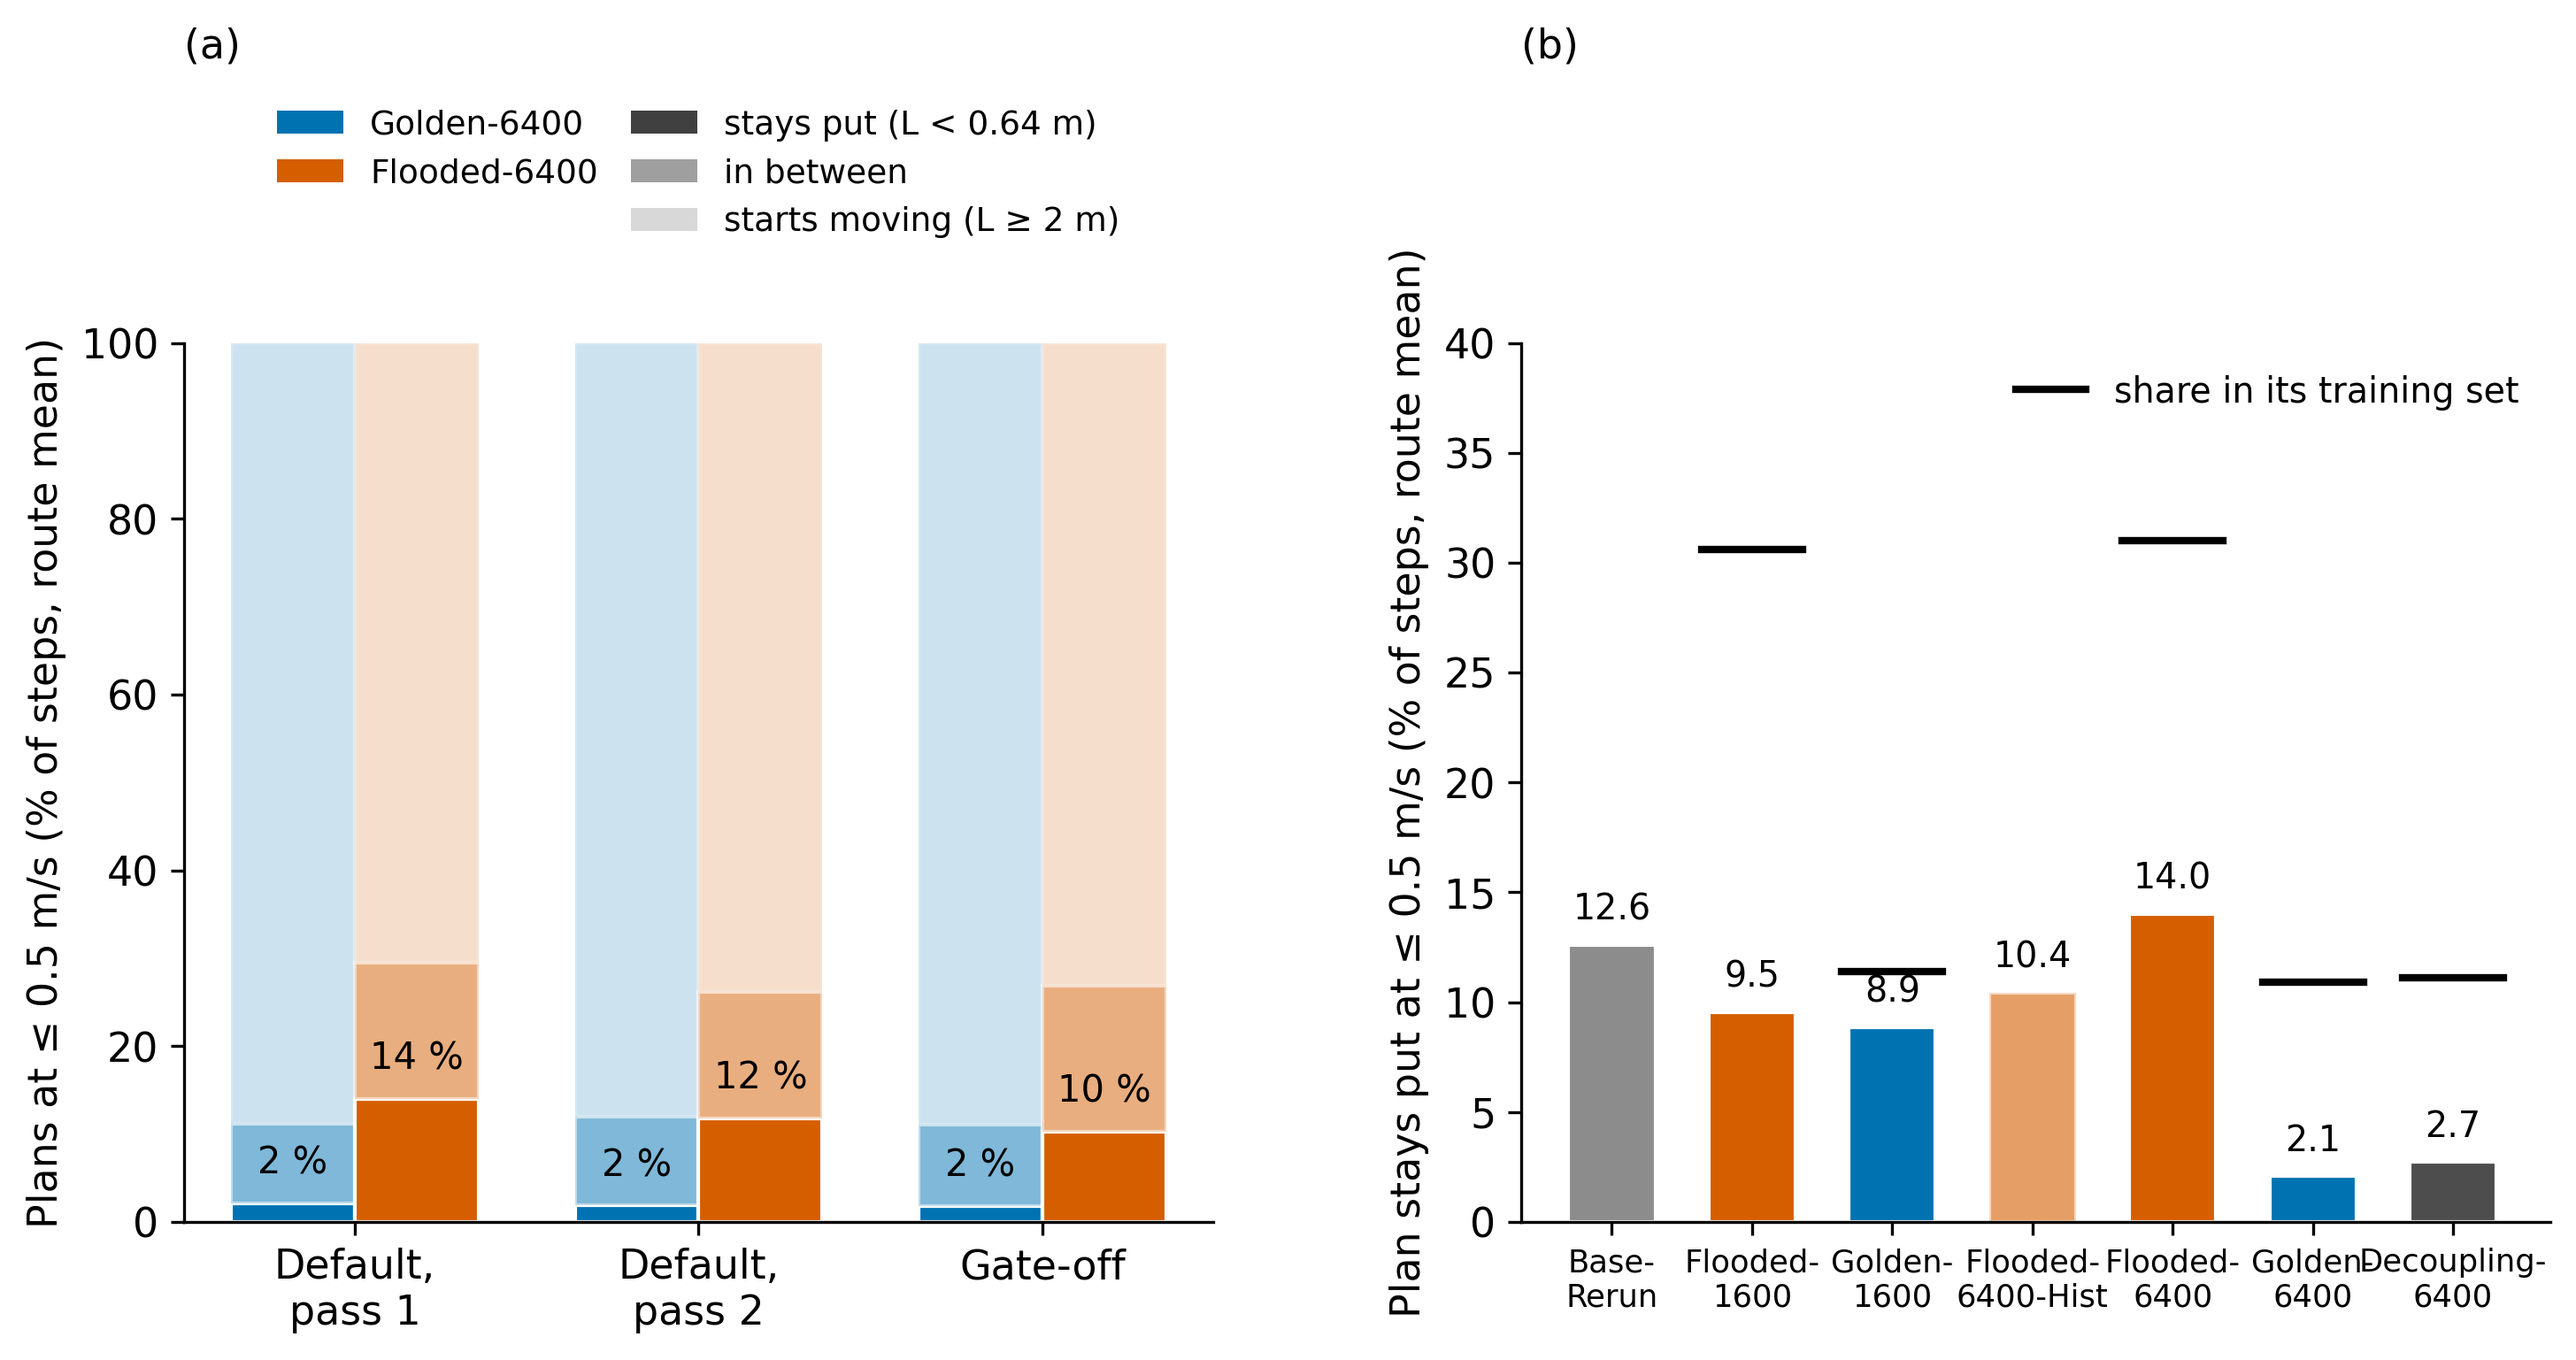
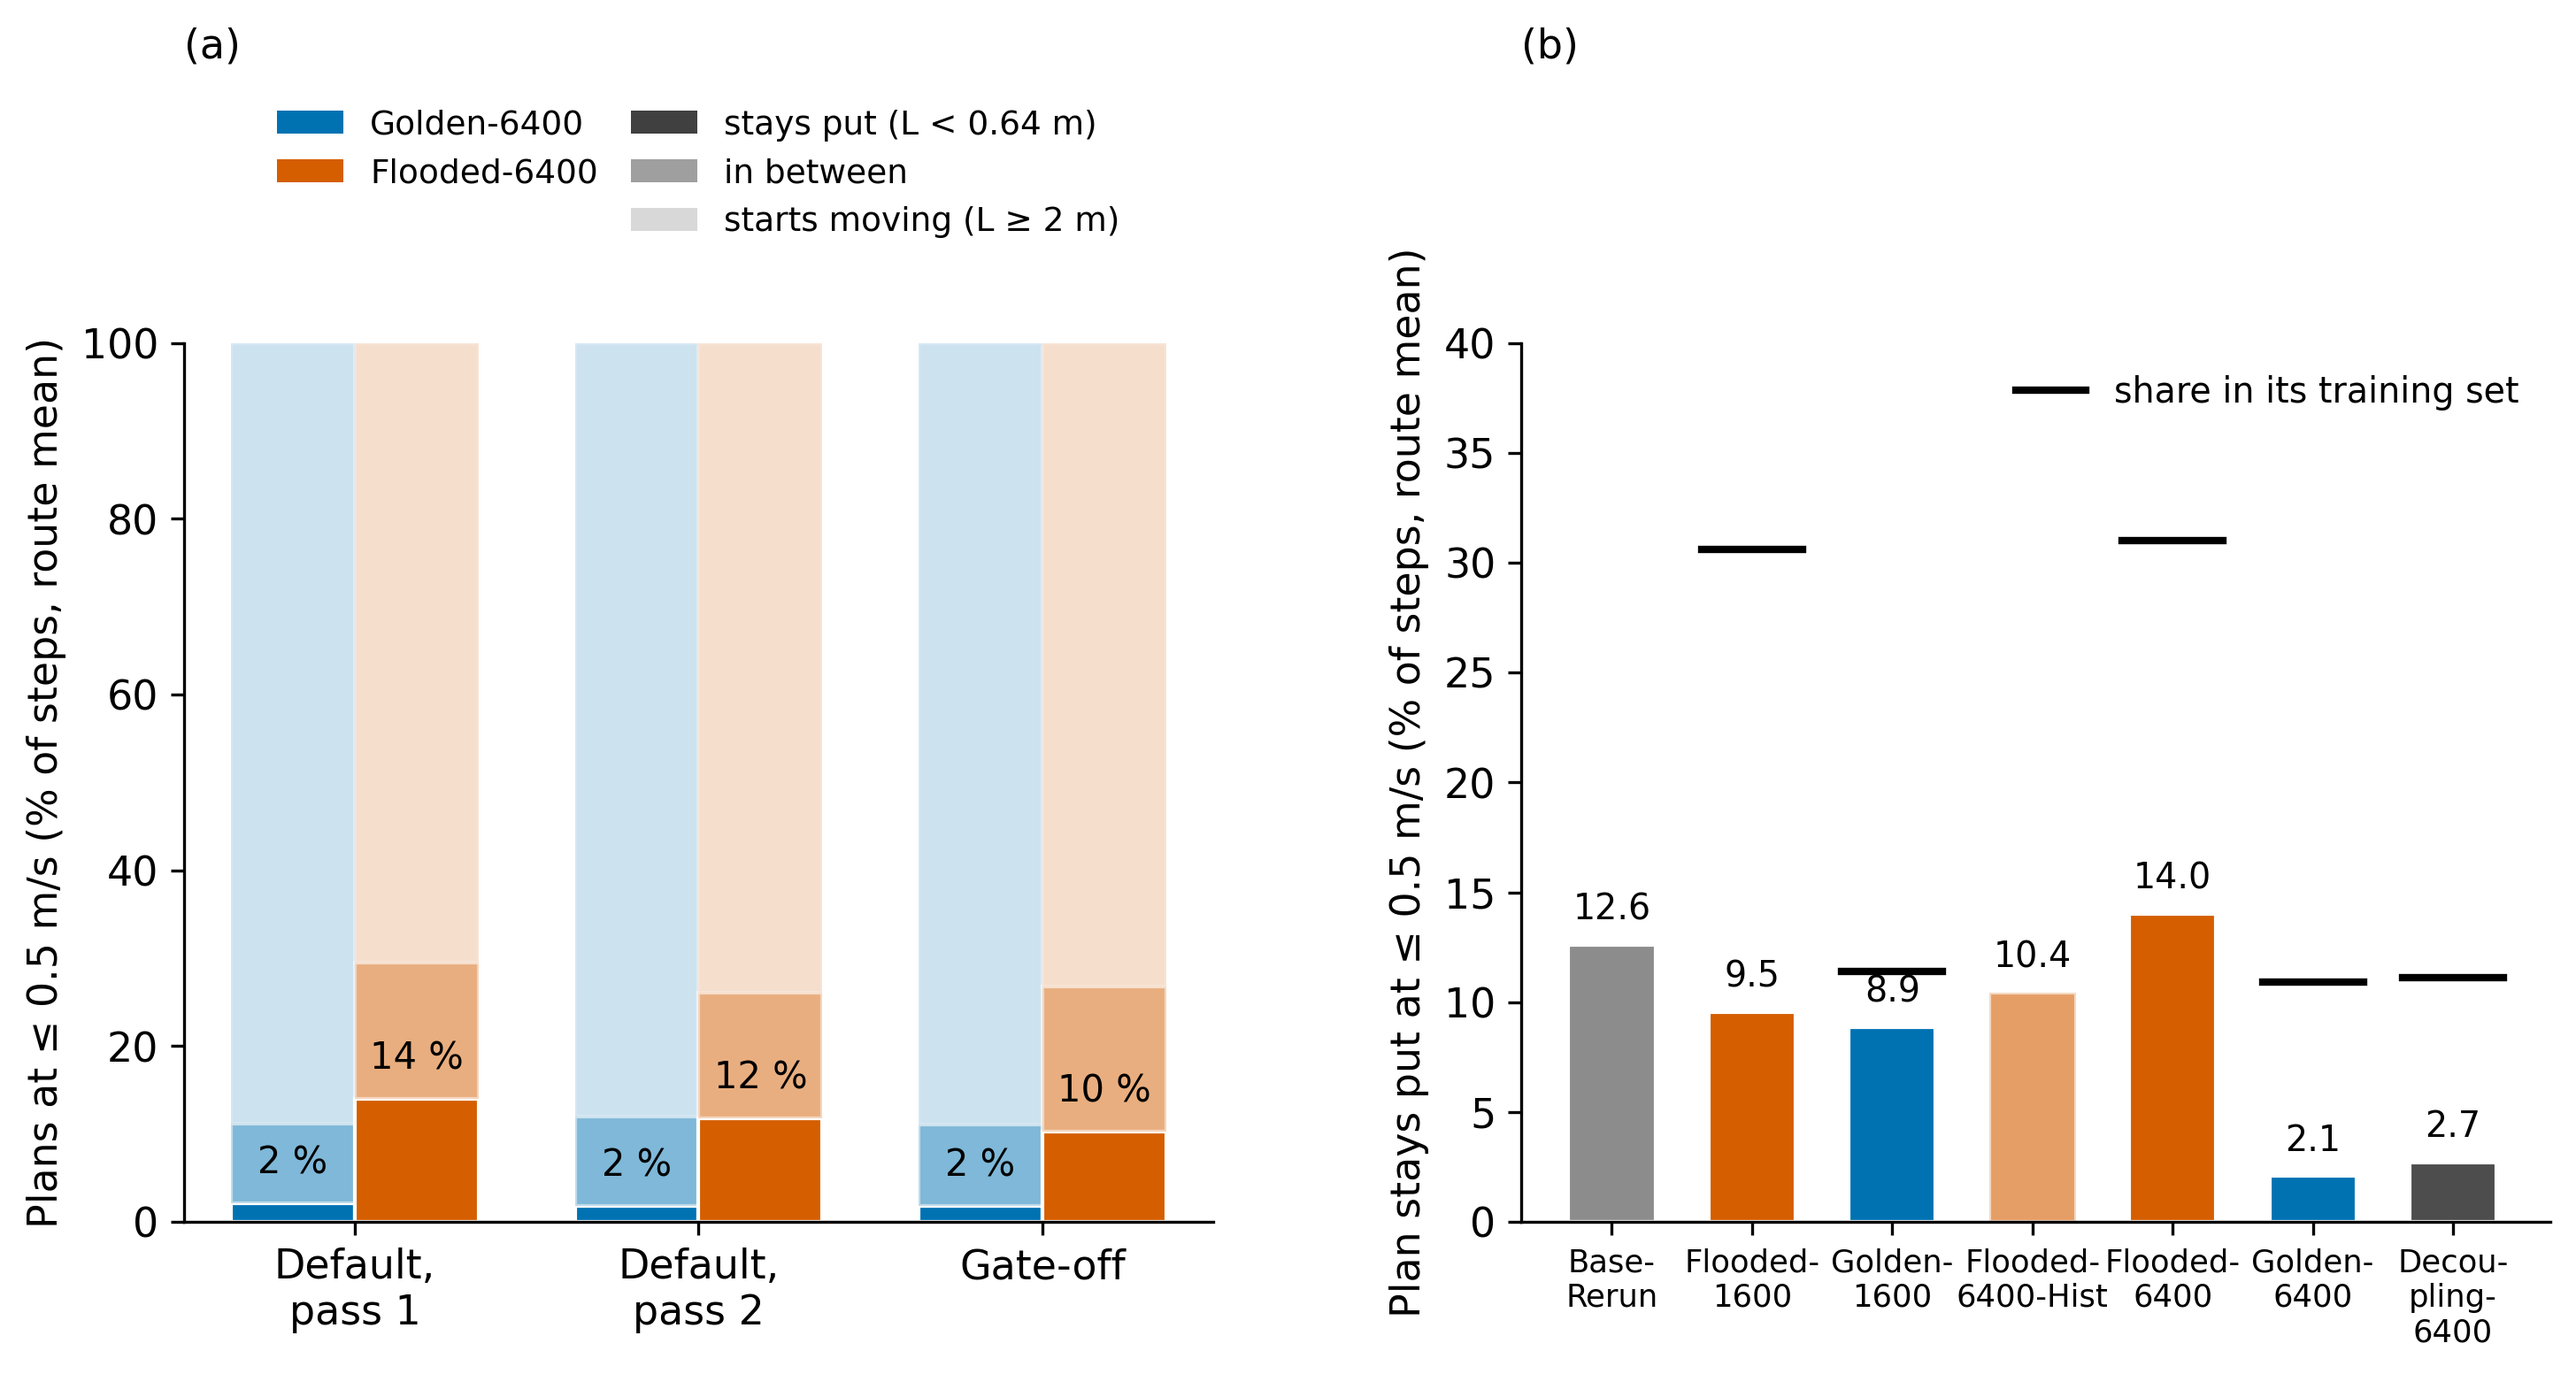
Figure 5b: label of the decoupling checkpoint on three lines
Claude-Session: https://claude.ai/code/session_01NxZe3efhvJdWwBPkxud7bn

diff --git a/scripts/paper/make_figures.py b/scripts/paper/make_figures.py
@@ -176,7 +176,7 @@ def fig_low_speed_plans():
               ("Flooded-6400-Hist", "Flooded-\n6400-Hist", C_FLOOD, None),
               ("Flooded-6400-Matched run1", "Flooded-\n6400", C_FLOOD, "flooded_6400"),
               ("Golden-6400 run1", "Golden-\n6400", C_GOLD, "golden_6400"),
-              ("Balanced-6400 run1", "Decoupling-\n6400", "0.3", "floodedgroups_balanced_6400")]
+              ("Balanced-6400 run1", "Decou-\npling-\n6400", "0.3", "floodedgroups_balanced_6400")]
     for k, (name, lab, c, tkey) in enumerate(models):
         v = means[name]["low_speed_stays_put_pct"]
         b.bar(k, v, 0.62, color=c, edgecolor="white", alpha=0.6 if name == "Flooded-6400-Hist" else 1.0)
